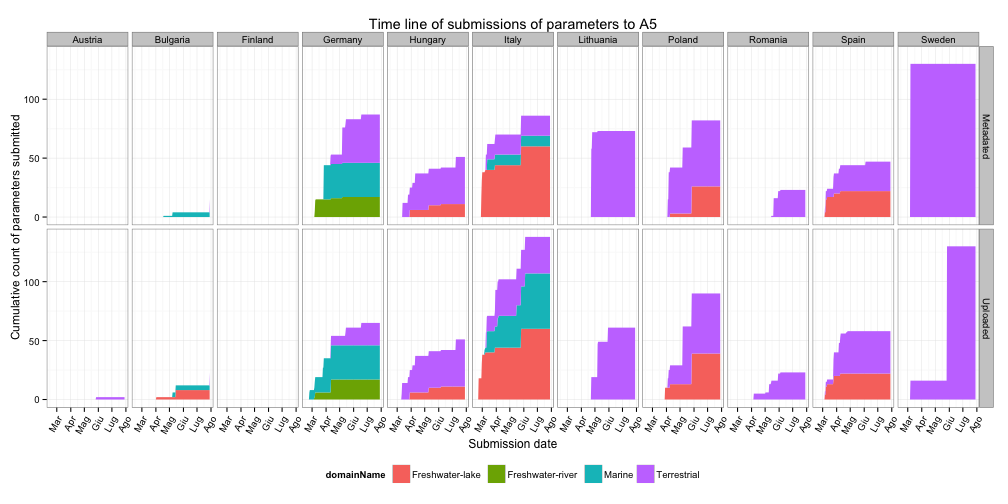
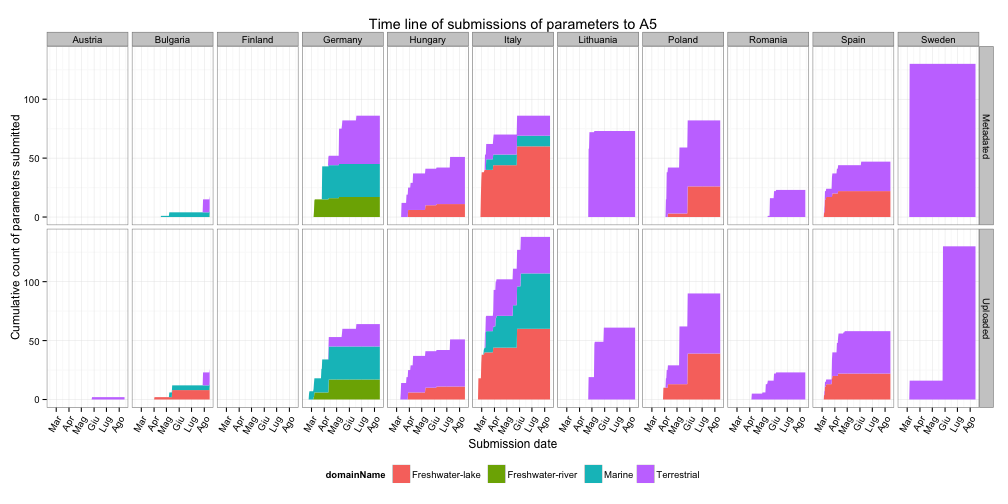
publishing deck

diff --git a/index.html b/index.html
@@ -48,9 +48,9 @@
   </hgroup>
   <article>
     <ul>
-<li>Last updated <code>2013-07-29</code></li>
+<li>Last updated <code>2013-08-14</code></li>
 <li>Deadline for data submission: <code>2013-03-08</code></li>
-<li>Days to deadline: <code>-143</code></li>
+<li>Days to deadline: <code>-159</code></li>
 <li>Total number of sites sampled in 2012: <code>62</code>; sub-sites: <code>66</code></li>
 </ul>
 
@@ -58,13 +58,13 @@
 
 <!-- html table generated in R 3.0.1 by xtable 1.7-1 package -->
 
-<!-- Mon Jul 29 14:44:07 2013 -->
+<!-- Wed Aug 14 09:07:07 2013 -->
 
 <TABLE border=1>
 <TR> <TH>  </TH> <TH> No. uploaded </TH> <TH> No. metadated </TH> <TH> Total no. </TH> <TH> Upload ratio </TH> <TH> Metadata ratio </TH>  </TR>
-  <TR> <TD align="right"> Year2012 </TD> <TD align="right"> 498 </TD> <TD align="right"> 468 </TD> <TD align="right"> 1044 </TD> <TD align="right"> 0.48 </TD> <TD align="right"> 0.45 </TD> </TR>
+  <TR> <TD align="right"> Year2012 </TD> <TD align="right"> 500 </TD> <TD align="right"> 470 </TD> <TD align="right"> 1044 </TD> <TD align="right"> 0.48 </TD> <TD align="right"> 0.45 </TD> </TR>
   <TR> <TD align="right"> Year2011 </TD> <TD align="right"> 143 </TD> <TD align="right"> 126 </TD> <TD align="right"> 275 </TD> <TD align="right"> 0.52 </TD> <TD align="right"> 0.46 </TD> </TR>
-  <TR> <TD align="right"> Sum </TD> <TD align="right"> 641 </TD> <TD align="right"> 594 </TD> <TD align="right"> 1319 </TD> <TD align="right"> 0.49 </TD> <TD align="right"> 0.45 </TD> </TR>
+  <TR> <TD align="right"> Sum </TD> <TD align="right"> 643 </TD> <TD align="right"> 596 </TD> <TD align="right"> 1319 </TD> <TD align="right"> 0.49 </TD> <TD align="right"> 0.45 </TD> </TR>
    </TABLE>
 
   </article>

diff --git a/index.md b/index.md
@@ -26,19 +26,19 @@ github:
 
 ## State of uploading process
 
-* Last updated ``2013-07-29``
+* Last updated ``2013-08-14``
 * Deadline for data submission: `2013-03-08`
-* Days to deadline: ``-143``
+* Days to deadline: ``-159``
 * Total number of sites sampled in 2012: ``62``; sub-sites: ``66``
 
 Parameters uploaded and metadated:
 <!-- html table generated in R 3.0.1 by xtable 1.7-1 package -->
-<!-- Mon Jul 29 14:44:07 2013 -->
+<!-- Wed Aug 14 09:07:07 2013 -->
 <TABLE border=1>
 <TR> <TH>  </TH> <TH> No. uploaded </TH> <TH> No. metadated </TH> <TH> Total no. </TH> <TH> Upload ratio </TH> <TH> Metadata ratio </TH>  </TR>
-  <TR> <TD align="right"> Year2012 </TD> <TD align="right"> 498 </TD> <TD align="right"> 468 </TD> <TD align="right"> 1044 </TD> <TD align="right"> 0.48 </TD> <TD align="right"> 0.45 </TD> </TR>
+  <TR> <TD align="right"> Year2012 </TD> <TD align="right"> 500 </TD> <TD align="right"> 470 </TD> <TD align="right"> 1044 </TD> <TD align="right"> 0.48 </TD> <TD align="right"> 0.45 </TD> </TR>
   <TR> <TD align="right"> Year2011 </TD> <TD align="right"> 143 </TD> <TD align="right"> 126 </TD> <TD align="right"> 275 </TD> <TD align="right"> 0.52 </TD> <TD align="right"> 0.46 </TD> </TR>
-  <TR> <TD align="right"> Sum </TD> <TD align="right"> 641 </TD> <TD align="right"> 594 </TD> <TD align="right"> 1319 </TD> <TD align="right"> 0.49 </TD> <TD align="right"> 0.45 </TD> </TR>
+  <TR> <TD align="right"> Sum </TD> <TD align="right"> 643 </TD> <TD align="right"> 596 </TD> <TD align="right"> 1319 </TD> <TD align="right"> 0.49 </TD> <TD align="right"> 0.45 </TD> </TR>
    </TABLE>
 
 
